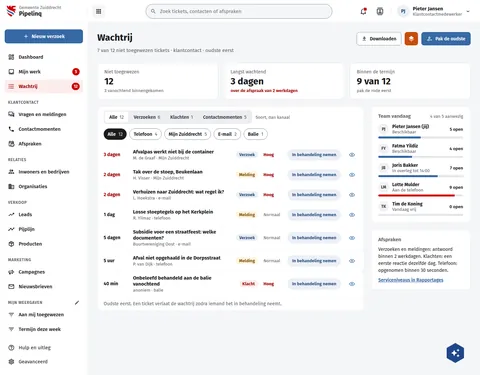
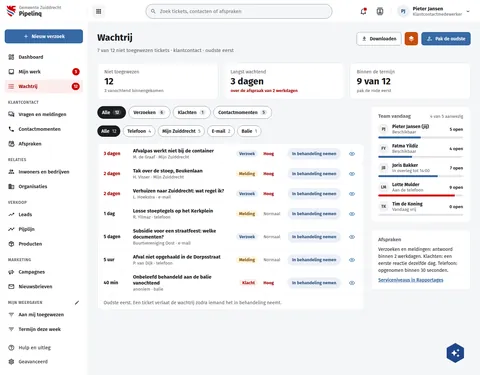
fix(screens): PqWachtrij draws its lenses above the list card, as DqTeamwachtrij (#788)
The kind lenses (Alle 12, Verzoeken 6, Klachten 1, Contactmomenten 5)
were a segmented control inside the list card with "Soort, dan kanaal".
DqTeamwachtrij draws its lenses as chips above the card, and Dq wins
where the boards differ, so PqWachtrij now does the same: the lens
chips above the card, the channel strip under them, and the card opens
with its rows. Built with build.py --only PqWachtrij.

Assisted-by: ClaudeCode:claude-opus-5-5

diff --git a/preview/screens/boards/PqWachtrij.html b/preview/screens/boards/PqWachtrij.html
@@ -216,21 +216,32 @@ a{color:var(--sc-primary, #3669a5)}a:hover{color:var(--sc-primary-deep, #234a78)
         </div>
 
         <div style="display: flex; flex-wrap: wrap; gap: 20px; align-items: flex-start">
-          <section style="flex: 999 1 520px; min-width: 0; background: #ffffff; border: 1px solid var(--sc-work-line, #e4e6ea); border-radius: 12px; display: flex; flex-direction: column">
-            <div style="display: flex; flex-wrap: wrap; align-items: center; gap: 10px; padding: 12px 18px 0"><div role="tablist" aria-label="Type" style="display: flex; gap: 2px; padding: 3px; border-radius: 8px; background: #eceef1"><button type="button" role="tab" aria-selected="true" style="display: inline-flex; align-items: center; gap: 6px; height: 34px; padding: 0 14px; border: 0; border-radius: 6px; font: 600 14px var(--sc-font, 'Fira Sans'), sans-serif; cursor: pointer; background: #ffffff; color: var(--sc-work-ink, #1b1c1d); box-shadow: 0 1px 2px rgba(27,28,29,0.12);">Alle<span style="font-weight: 400; color: var(--sc-work-muted, #5e6168)">12</span></button><button type="button" role="tab" aria-selected="false" style="display: inline-flex; align-items: center; gap: 6px; height: 34px; padding: 0 14px; border: 0; border-radius: 6px; font: 600 14px var(--sc-font, 'Fira Sans'), sans-serif; cursor: pointer; background: transparent; color: var(--sc-work-text, #3d4047);">Verzoeken<span style="font-weight: 400; color: var(--sc-work-muted, #5e6168)">6</span></button><button type="button" role="tab" aria-selected="false" style="display: inline-flex; align-items: center; gap: 6px; height: 34px; padding: 0 14px; border: 0; border-radius: 6px; font: 600 14px var(--sc-font, 'Fira Sans'), sans-serif; cursor: pointer; background: transparent; color: var(--sc-work-text, #3d4047);">Klachten<span style="font-weight: 400; color: var(--sc-work-muted, #5e6168)">1</span></button><button type="button" role="tab" aria-selected="false" style="display: inline-flex; align-items: center; gap: 6px; height: 34px; padding: 0 14px; border: 0; border-radius: 6px; font: 600 14px var(--sc-font, 'Fira Sans'), sans-serif; cursor: pointer; background: transparent; color: var(--sc-work-text, #3d4047);">Contactmomenten<span style="font-weight: 400; color: var(--sc-work-muted, #5e6168)">5</span></button></div><span style="font-size: 13px; color: var(--sc-work-muted, #5e6168)">Soort, dan kanaal</span></div>
-            <div role="tablist" aria-label="Kanaal" style="display: flex; flex-wrap: wrap; gap: 8px; padding: 14px 18px; border-bottom: 1px solid var(--sc-work-soft, #eef0f3)">
+          <div style="flex: 999 1 520px; min-width: 0; display: flex; flex-direction: column; gap: 20px">
+            <div role="group" aria-label="Type" style="display: flex; flex-wrap: wrap; gap: 8px; align-items: center">
               
-                <button type="button" role="tab" aria-selected="true" style="display: inline-flex; align-items: center; gap: 8px; height: 34px; padding: 0 12px; border-radius: 17px; font: 600 14px var(--sc-font, 'Fira Sans'), sans-serif; cursor: pointer; border: 0; background: var(--sc-work-ink, #1b1c1d); color: #ffffff;">Alle<span style="font-weight: 400; color: #d6d9de;">12</span></button>
+                <button type="button" aria-pressed="true" style="display: flex; align-items: center; gap: 8px; height: 38px; padding: 0 14px; border-radius: 19px; font: 600 14px var(--sc-font, 'Fira Sans'), sans-serif; border: 0; background: var(--sc-work-ink, #1b1c1d); color: #ffffff;">Alle<span style="padding: 1px 7px; border-radius: 10px; font-size: 12px; background: var(--sc-work-text, #3d4047); color: #ffffff;">12</span></button>
               
-                <button type="button" role="tab" aria-selected="false" style="display: inline-flex; align-items: center; gap: 8px; height: 34px; padding: 0 12px; border-radius: 17px; font: 600 14px var(--sc-font, 'Fira Sans'), sans-serif; cursor: pointer; border: 1px solid var(--sc-work-field, #828a95); background: #ffffff; color: var(--sc-work-ink, #1b1c1d);">Telefoon<span style="font-weight: 400; color: var(--sc-work-muted, #5e6168);">4</span></button>
+                <button type="button" aria-pressed="false" style="display: flex; align-items: center; gap: 8px; height: 38px; padding: 0 14px; border-radius: 19px; font: 600 14px var(--sc-font, 'Fira Sans'), sans-serif; border: 1px solid var(--sc-work-field, #828a95); background: #ffffff; color: var(--sc-work-ink, #1b1c1d);">Verzoeken<span style="padding: 1px 7px; border-radius: 10px; font-size: 12px; background: var(--sc-work-line, #e4e6ea); color: var(--sc-work-text, #3d4047);">6</span></button>
               
-                <button type="button" role="tab" aria-selected="false" style="display: inline-flex; align-items: center; gap: 8px; height: 34px; padding: 0 12px; border-radius: 17px; font: 600 14px var(--sc-font, 'Fira Sans'), sans-serif; cursor: pointer; border: 1px solid var(--sc-work-field, #828a95); background: #ffffff; color: var(--sc-work-ink, #1b1c1d);">Mijn Zuiddrecht<span style="font-weight: 400; color: var(--sc-work-muted, #5e6168);">5</span></button>
+                <button type="button" aria-pressed="false" style="display: flex; align-items: center; gap: 8px; height: 38px; padding: 0 14px; border-radius: 19px; font: 600 14px var(--sc-font, 'Fira Sans'), sans-serif; border: 1px solid var(--sc-work-field, #828a95); background: #ffffff; color: var(--sc-work-ink, #1b1c1d);">Klachten<span style="padding: 1px 7px; border-radius: 10px; font-size: 12px; background: var(--sc-work-line, #e4e6ea); color: var(--sc-work-text, #3d4047);">1</span></button>
               
-                <button type="button" role="tab" aria-selected="false" style="display: inline-flex; align-items: center; gap: 8px; height: 34px; padding: 0 12px; border-radius: 17px; font: 600 14px var(--sc-font, 'Fira Sans'), sans-serif; cursor: pointer; border: 1px solid var(--sc-work-field, #828a95); background: #ffffff; color: var(--sc-work-ink, #1b1c1d);">E-mail<span style="font-weight: 400; color: var(--sc-work-muted, #5e6168);">2</span></button>
-              
-                <button type="button" role="tab" aria-selected="false" style="display: inline-flex; align-items: center; gap: 8px; height: 34px; padding: 0 12px; border-radius: 17px; font: 600 14px var(--sc-font, 'Fira Sans'), sans-serif; cursor: pointer; border: 1px solid var(--sc-work-field, #828a95); background: #ffffff; color: var(--sc-work-ink, #1b1c1d);">Balie<span style="font-weight: 400; color: var(--sc-work-muted, #5e6168);">1</span></button>
+                <button type="button" aria-pressed="false" style="display: flex; align-items: center; gap: 8px; height: 38px; padding: 0 14px; border-radius: 19px; font: 600 14px var(--sc-font, 'Fira Sans'), sans-serif; border: 1px solid var(--sc-work-field, #828a95); background: #ffffff; color: var(--sc-work-ink, #1b1c1d);">Contactmomenten<span style="padding: 1px 7px; border-radius: 10px; font-size: 12px; background: var(--sc-work-line, #e4e6ea); color: var(--sc-work-text, #3d4047);">5</span></button>
               
             </div>
+            <div role="group" aria-label="Kanaal" style="display: flex; flex-wrap: wrap; gap: 8px">
+              
+                <button type="button" aria-pressed="true" style="display: inline-flex; align-items: center; gap: 8px; height: 34px; padding: 0 12px; border-radius: 17px; font: 600 14px var(--sc-font, 'Fira Sans'), sans-serif; cursor: pointer; border: 0; background: var(--sc-work-ink, #1b1c1d); color: #ffffff;">Alle<span style="font-weight: 400; color: #d6d9de;">12</span></button>
+              
+                <button type="button" aria-pressed="false" style="display: inline-flex; align-items: center; gap: 8px; height: 34px; padding: 0 12px; border-radius: 17px; font: 600 14px var(--sc-font, 'Fira Sans'), sans-serif; cursor: pointer; border: 1px solid var(--sc-work-field, #828a95); background: #ffffff; color: var(--sc-work-ink, #1b1c1d);">Telefoon<span style="font-weight: 400; color: var(--sc-work-muted, #5e6168);">4</span></button>
+              
+                <button type="button" aria-pressed="false" style="display: inline-flex; align-items: center; gap: 8px; height: 34px; padding: 0 12px; border-radius: 17px; font: 600 14px var(--sc-font, 'Fira Sans'), sans-serif; cursor: pointer; border: 1px solid var(--sc-work-field, #828a95); background: #ffffff; color: var(--sc-work-ink, #1b1c1d);">Mijn Zuiddrecht<span style="font-weight: 400; color: var(--sc-work-muted, #5e6168);">5</span></button>
+              
+                <button type="button" aria-pressed="false" style="display: inline-flex; align-items: center; gap: 8px; height: 34px; padding: 0 12px; border-radius: 17px; font: 600 14px var(--sc-font, 'Fira Sans'), sans-serif; cursor: pointer; border: 1px solid var(--sc-work-field, #828a95); background: #ffffff; color: var(--sc-work-ink, #1b1c1d);">E-mail<span style="font-weight: 400; color: var(--sc-work-muted, #5e6168);">2</span></button>
+              
+                <button type="button" aria-pressed="false" style="display: inline-flex; align-items: center; gap: 8px; height: 34px; padding: 0 12px; border-radius: 17px; font: 600 14px var(--sc-font, 'Fira Sans'), sans-serif; cursor: pointer; border: 1px solid var(--sc-work-field, #828a95); background: #ffffff; color: var(--sc-work-ink, #1b1c1d);">Balie<span style="font-weight: 400; color: var(--sc-work-muted, #5e6168);">1</span></button>
+              
+            </div>
+          <section style="min-width: 0; background: #ffffff; border: 1px solid var(--sc-work-line, #e4e6ea); border-radius: 12px; display: flex; flex-direction: column">
             
               <div style="display: flex; flex-wrap: wrap; align-items: center; gap: 8px 16px; padding: 12px 18px; border-bottom: 1px solid var(--sc-work-soft, #eef0f3)">
                 <span style="flex: none; width: 72px; font-size: 14px; font-weight: 700; color: var(--sc-accent-deep, #a30000);">3 dagen</span>
@@ -297,6 +308,7 @@ a{color:var(--sc-primary, #3669a5)}a:hover{color:var(--sc-primary-deep, #234a78)
             
             <div style="padding: 12px 18px; font-size: 14px; color: var(--sc-work-muted, #5e6168)">Oudste eerst. Een ticket verlaat de wachtrij zodra iemand het in behandeling neemt.</div>
           </section>
+          </div>
 
           <aside style="flex: 1 1 300px; min-width: 0; display: flex; flex-direction: column; gap: 20px">
             <section style="background: #ffffff; border: 1px solid var(--sc-work-line, #e4e6ea); border-radius: 12px; padding: 20px 22px; display: flex; flex-direction: column; gap: 14px">

diff --git a/screens-src/zuiddrecht/PqWachtrij.dc.html b/screens-src/zuiddrecht/PqWachtrij.dc.html
@@ -45,13 +45,18 @@ a{color:#3669a5}a:hover{color:#234a78}
         </div>
 
         <div style="display: flex; flex-wrap: wrap; gap: 20px; align-items: flex-start">
-          <section style="flex: 999 1 520px; min-width: 0; background: #ffffff; border: 1px solid #e4e6ea; border-radius: 12px; display: flex; flex-direction: column">
-            <div style="display: flex; flex-wrap: wrap; align-items: center; gap: 10px; padding: 12px 18px 0"><div role="tablist" aria-label="Type" style="display: flex; gap: 2px; padding: 3px; border-radius: 8px; background: #eceef1"><button type="button" role="tab" aria-selected="true" style="display: inline-flex; align-items: center; gap: 6px; height: 34px; padding: 0 14px; border: 0; border-radius: 6px; font: 600 14px 'Fira Sans', sans-serif; cursor: pointer; background: #ffffff; color: #1b1c1d; box-shadow: 0 1px 2px rgba(27,28,29,0.12);">Alle<span style="font-weight: 400; color: #5e6168">12</span></button><button type="button" role="tab" aria-selected="false" style="display: inline-flex; align-items: center; gap: 6px; height: 34px; padding: 0 14px; border: 0; border-radius: 6px; font: 600 14px 'Fira Sans', sans-serif; cursor: pointer; background: transparent; color: #3d4047;">Verzoeken<span style="font-weight: 400; color: #5e6168">6</span></button><button type="button" role="tab" aria-selected="false" style="display: inline-flex; align-items: center; gap: 6px; height: 34px; padding: 0 14px; border: 0; border-radius: 6px; font: 600 14px 'Fira Sans', sans-serif; cursor: pointer; background: transparent; color: #3d4047;">Klachten<span style="font-weight: 400; color: #5e6168">1</span></button><button type="button" role="tab" aria-selected="false" style="display: inline-flex; align-items: center; gap: 6px; height: 34px; padding: 0 14px; border: 0; border-radius: 6px; font: 600 14px 'Fira Sans', sans-serif; cursor: pointer; background: transparent; color: #3d4047;">Contactmomenten<span style="font-weight: 400; color: #5e6168">5</span></button></div><span style="font-size: 13px; color: #5e6168">Soort, dan kanaal</span></div>
-            <div role="tablist" aria-label="Kanaal" style="display: flex; flex-wrap: wrap; gap: 8px; padding: 14px 18px; border-bottom: 1px solid #eef0f3">
-              <sc-for list="{{ channels }}" as="c" hint-placeholder-count="5">
-                <button type="button" role="tab" aria-selected="{{ c.sel }}" style="{{ c.style }}">{{ c.label }}<span style="{{ c.countStyle }}">{{ c.count }}</span></button>
+          <div style="flex: 999 1 520px; min-width: 0; display: flex; flex-direction: column; gap: 20px">
+            <div role="group" aria-label="Type" style="display: flex; flex-wrap: wrap; gap: 8px; align-items: center">
+              <sc-for list="{{ types }}" as="v" hint-placeholder-count="4">
+                <button type="button" aria-pressed="{{ v.pressed }}" style="{{ v.style }}">{{ v.label }}<span style="{{ v.countStyle }}">{{ v.count }}</span></button>
               </sc-for>
             </div>
+            <div role="group" aria-label="Kanaal" style="display: flex; flex-wrap: wrap; gap: 8px">
+              <sc-for list="{{ channels }}" as="c" hint-placeholder-count="5">
+                <button type="button" aria-pressed="{{ c.sel }}" style="{{ c.style }}">{{ c.label }}<span style="{{ c.countStyle }}">{{ c.count }}</span></button>
+              </sc-for>
+            </div>
+          <section style="min-width: 0; background: #ffffff; border: 1px solid #e4e6ea; border-radius: 12px; display: flex; flex-direction: column">
             <sc-for list="{{ rows }}" as="r" hint-placeholder-count="7">
               <div style="display: flex; flex-wrap: wrap; align-items: center; gap: 8px 16px; padding: 12px 18px; border-bottom: 1px solid #eef0f3">
                 <span style="{{ r.waitStyle }}">{{ r.wait }}</span>
@@ -64,6 +69,7 @@ a{color:#3669a5}a:hover{color:#234a78}
             </sc-for>
             <div style="padding: 12px 18px; font-size: 14px; color: #5e6168">Oudste eerst. Een ticket verlaat de wachtrij zodra iemand het in behandeling neemt.</div>
           </section>
+          </div>
 
           <aside style="flex: 1 1 300px; min-width: 0; display: flex; flex-direction: column; gap: 20px">
             <section style="background: #ffffff; border: 1px solid #e4e6ea; border-radius: 12px; padding: 20px 22px; display: flex; flex-direction: column; gap: 14px">
@@ -103,6 +109,10 @@ class Component extends DCLogic {
       { label: 'Binnen de termijn', value: '9 van 12', note: 'pak de rode eerst', noteStyle: 'font-size: 13px; color: #5e6168' }
     ];
     const chip = (on) => 'display: inline-flex; align-items: center; gap: 8px; height: 34px; padding: 0 12px; border-radius: 17px; font: 600 14px \'Fira Sans\', sans-serif; cursor: pointer; ' + (on ? 'border: 0; background: #1b1c1d; color: #ffffff;' : 'border: 1px solid #828a95; background: #ffffff; color: #1b1c1d;');
+    const vwS = (on) => 'display: flex; align-items: center; gap: 8px; height: 38px; padding: 0 14px; border-radius: 19px; font: 600 14px \'Fira Sans\', sans-serif; ' + (on ? 'border: 0; background: #1b1c1d; color: #ffffff;' : 'border: 1px solid #828a95; background: #ffffff; color: #1b1c1d;');
+    const vwC = (on) => 'padding: 1px 7px; border-radius: 10px; font-size: 12px; ' + (on ? 'background: #3d4047; color: #ffffff;' : 'background: #e4e6ea; color: #3d4047;');
+    const types = [['Alle', 12, true], ['Verzoeken', 6, false], ['Klachten', 1, false], ['Contactmomenten', 5, false]]
+      .map(([label, count, on]) => ({ label, count, pressed: on ? 'true' : 'false', style: vwS(on), countStyle: vwC(on) }));
     const channels = [['Alle', 12, true], ['Telefoon', 4, false], ['Mijn Zuiddrecht', 5, false], ['E-mail', 2, false], ['Balie', 1, false]]
       .map(([label, count, on]) => ({ label, count, sel: on ? 'true' : 'false', style: chip(on), countStyle: 'font-weight: 400; ' + (on ? 'color: #d6d9de;' : 'color: #5e6168;') }));
     const st = (bg, fg) => 'display: inline-block; padding: 3px 10px; border-radius: 12px; font-size: 13px; font-weight: 600; white-space: nowrap; background: ' + bg + '; color: ' + fg;
@@ -125,7 +135,7 @@ class Component extends DCLogic {
       { initials: 'LM', name: 'Lotte Mulder', state: 'Aan de telefoon', load: '9 open', bar: bar(90, true) },
       { initials: 'TK', name: 'Tim de Koning', state: 'Vandaag vrij', load: '0 open', bar: bar(0, false) }
     ];
-    return { nav, kpis, channels, rows, team };
+    return { nav, kpis, types, channels, rows, team };
   }
 }
 </script>
